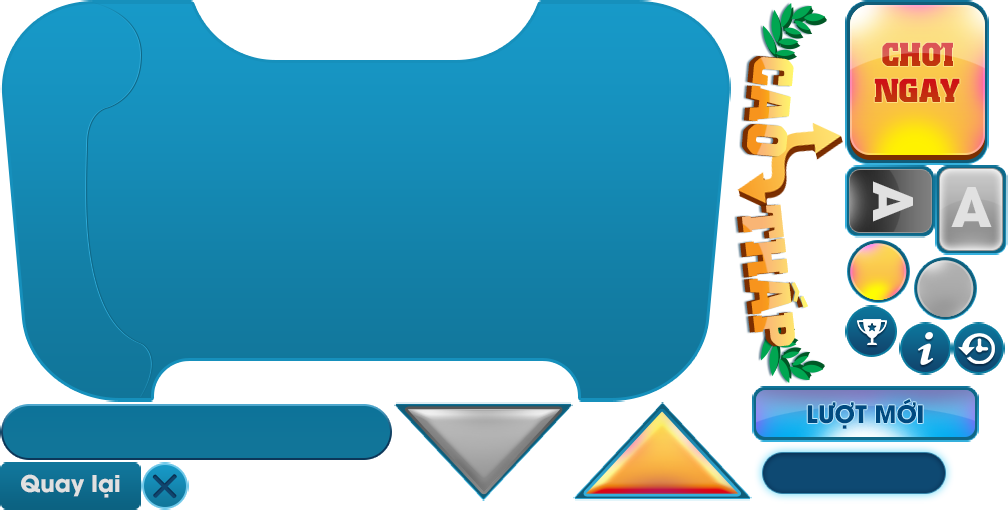
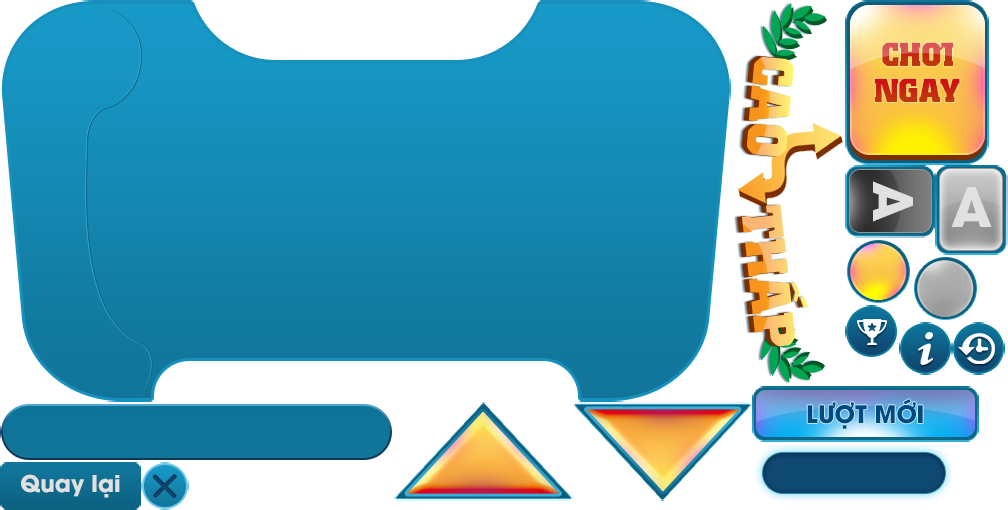
fix highLow popup

Changed region(s): [[0.3998, 0.7647, 0.7381, 1.0]]

diff --git a/assets/scripts/components/prefabs/dialog/body/HighLow/MiniHighLowPopup.js b/assets/scripts/components/prefabs/dialog/body/HighLow/MiniHighLowPopup.js
@@ -93,7 +93,7 @@ class MiniHighLowPopup extends BasePopup {
         // app.highLowContext.sendStart(1000)
         this.removeAtCards()
         this.disableCardStreak()
-        this._showHighLowBtns()
+        this._turnOnInteractableHighLowBtns()
         this.switchBetInteractable(true)
         this._stopTimer()
     }
@@ -167,9 +167,9 @@ class MiniHighLowPopup extends BasePopup {
         this.btnEnd.active = false
     }
 
-    _showHighLowBtns() {
-        this.btnHigh.active = true
-        this.btnLow.active = true
+    _turnOnInteractableHighLowBtns() {
+        this.btnHigh.getComponent(cc.Button).interactable = true
+        this.btnLow.getComponent(cc.Button).interactable = true
     }
 
     //when End Game
@@ -194,14 +194,14 @@ class MiniHighLowPopup extends BasePopup {
         this.isSpinning = true
         this.card.spinToCard(cardValue, duration, () => {
             this.isSpinning = false
-            this._showHighLowBtns()
+            this._turnOnInteractableHighLowBtns()
             if (cardValue < 8) {
                 let children = this.atGroup.children
                 children[this.atCount].getComponent(cc.Sprite).spriteFrame = this.highLowAtlas.getSpriteFrame('A-2')
                 this.atCount++
-                this.btnHigh.active = false
+                this.btnHigh.getComponent(cc.Button).interactable = false
             } else if (cardValue < 12) {
-                this.btnLow.active = false
+                this.btnLow.getComponent(cc.Button).interactable = false
             }
         })
     }
